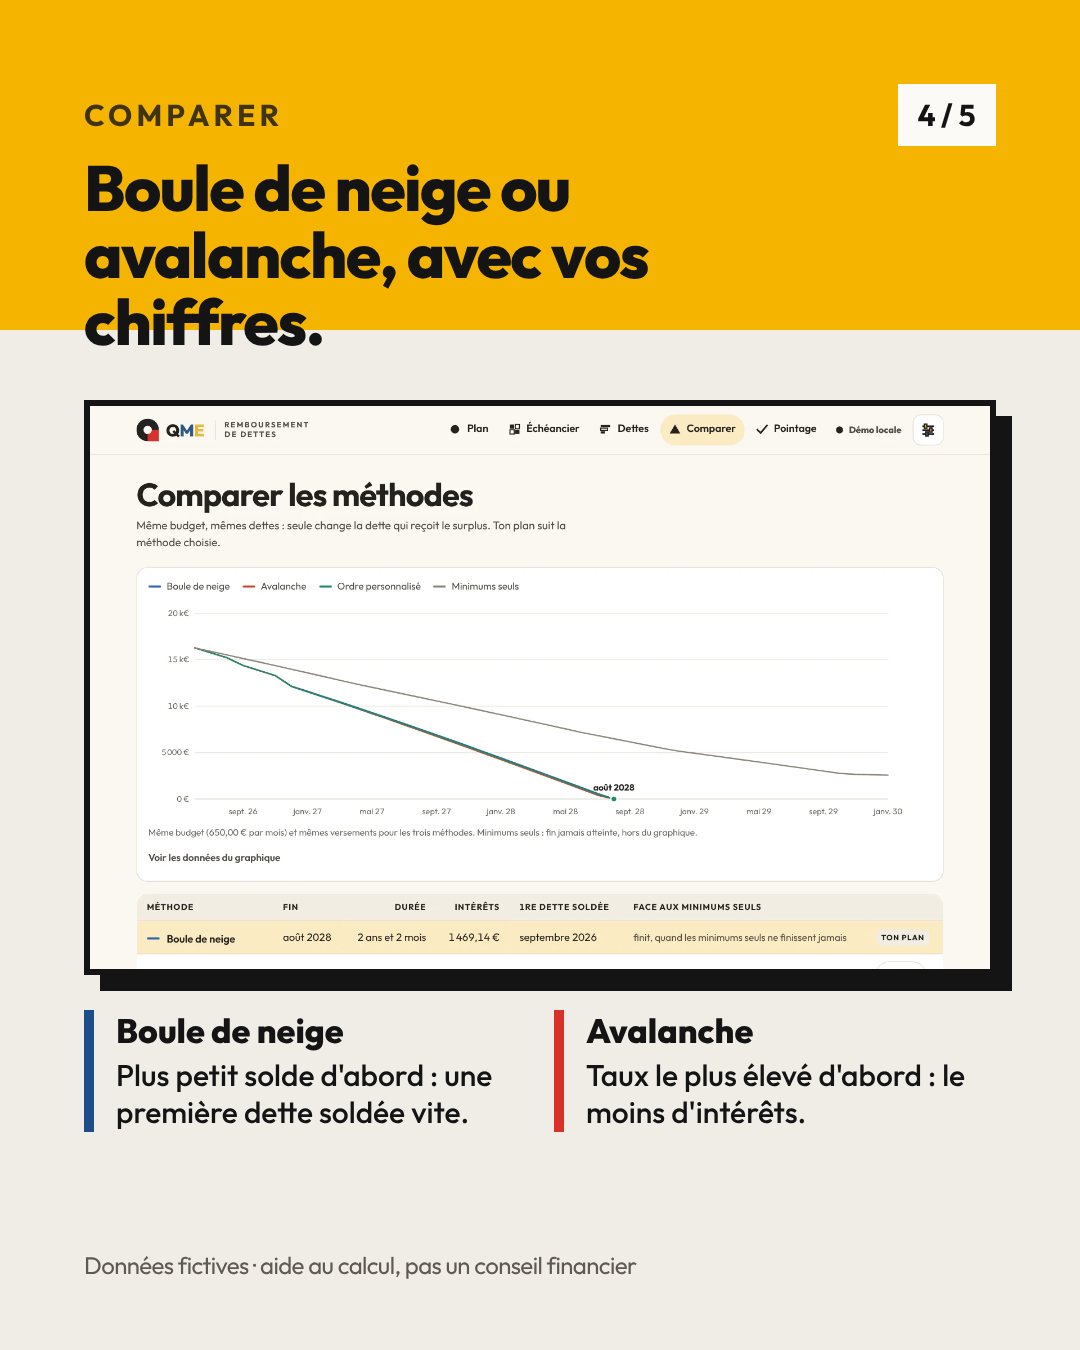
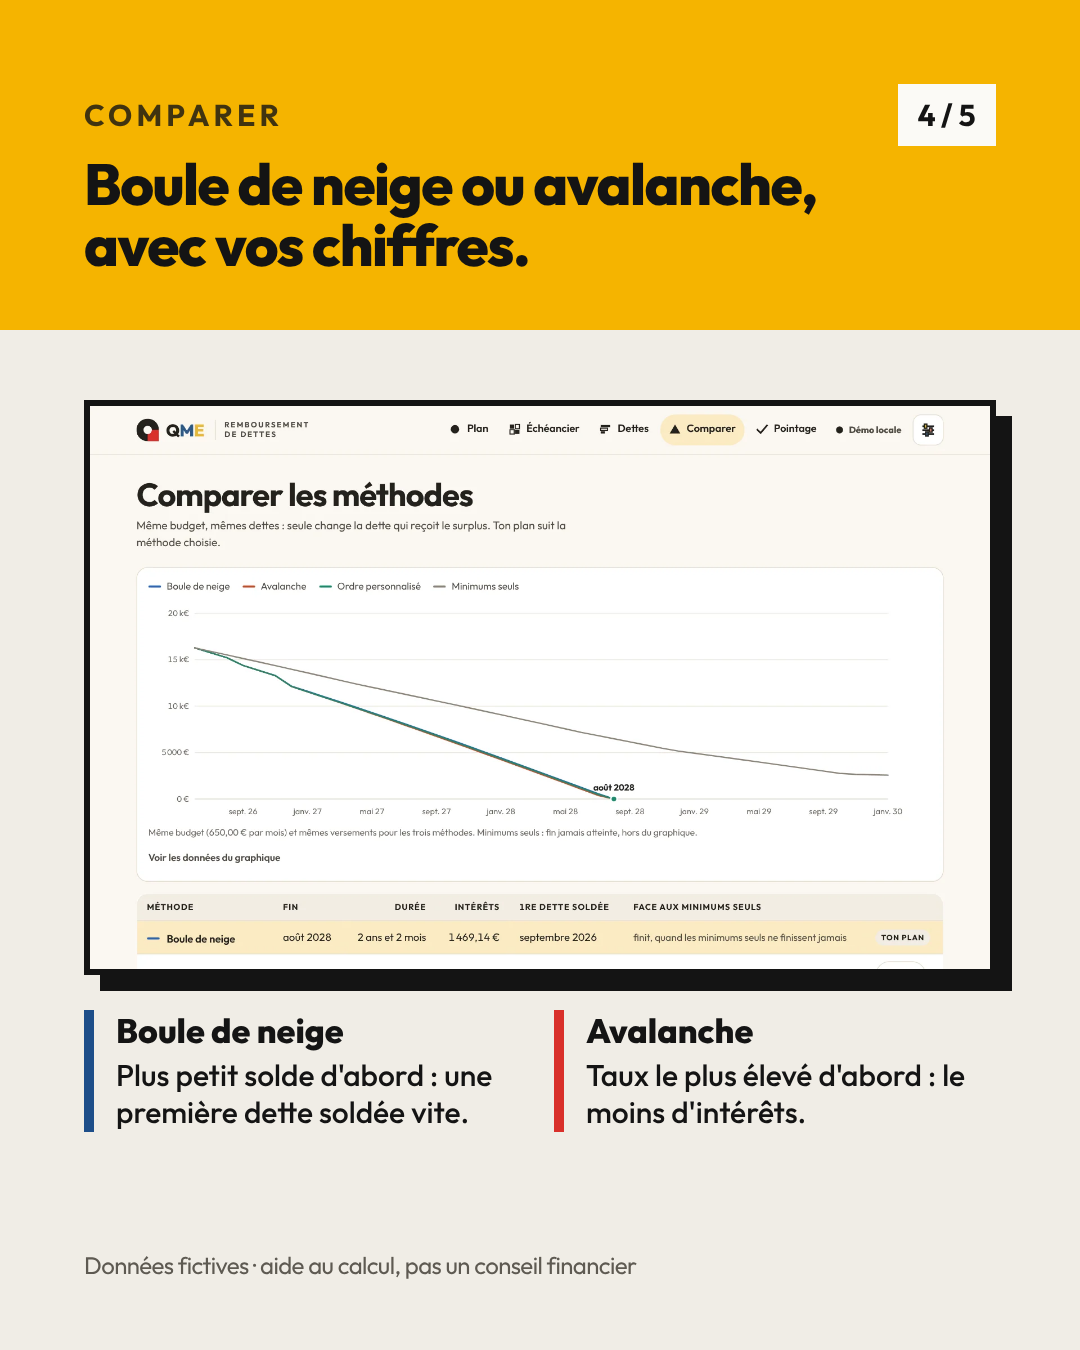
T12 Remboursement de dettes : application, tests, page catalogue, captures et communication
Claude-Session: https://claude.ai/code/session_0183EW55jPQAzu4zqaZwbUf6

Changed region(s): [[0.0611, 0.1244, 0.7639, 0.28]]

diff --git a/docs/templates/communication/dettes/instagram/carrousel.html b/docs/templates/communication/dettes/instagram/carrousel.html
@@ -27,7 +27,7 @@ h1,h2,p{letter-spacing:-.025em}
 
 /* Vue 1 : couverture-question (car-1) */
 .c1 .titre{position:absolute;left:84px;top:200px;right:84px}
-.c1 h1{font-size:118px;font-weight:800;line-height:.98}
+.c1 h1{font-size:100px;font-weight:800;line-height:.98}
 .c1 h1 mark{background:var(--jaune);color:inherit;padding:0 10px}
 .c1 .sous{font-size:38px;line-height:1.3;color:var(--texte-2);margin-top:44px;max-width:800px}
 .c1 .fa{position:absolute;right:0;bottom:0;width:430px;height:430px;background:var(--rouge);border-top-left-radius:430px}
@@ -61,6 +61,7 @@ h1,h2,p{letter-spacing:-.025em}
 .c2 .note{position:absolute;left:84px;bottom:70px;font-size:24px;color:var(--discret)}
 .c2.jaune .bandeau{background:var(--jaune);color:var(--encre)}
 .c2.jaune .bandeau .sourcil{color:var(--encre);opacity:.8}
+.c2.jaune .bandeau h2{font-size:58px;max-width:820px}
 .c2 .ecran{position:absolute;left:84px;right:84px;top:400px;border:6px solid var(--encre);box-shadow:16px 16px 0 var(--encre);background:var(--surface)}
 .c2 .ecran img{display:block;width:100%}
 .c2 .bas{position:absolute;left:84px;right:84px;top:1010px;display:grid;grid-template-columns:1fr 1fr;gap:28px}

diff --git a/docs/templates/communication/dettes/prospects.md b/docs/templates/communication/dettes/prospects.md
@@ -1,0 +1,69 @@
+# Prospects · Remboursement de dettes
+
+Segments et organisations à démarcher. **Aucune donnée personnelle collectée** : on cible des fonctions et
+des structures, on écrit à des adresses professionnelles publiques ou via LinkedIn. Les organismes cités
+existent (vérifiés le 13/11/2026) ; leur intérêt pour un partenariat est **à vérifier** au premier contact.
+
+Le produit se vend à des particuliers (B2C). LinkedIn et l'e-mail professionnel servent surtout à toucher
+les **prescripteurs** (ceux qui accompagnent des foyers sur leur budget) et les **partenaires** (structures
+qui pourraient l'offrir). Gumroad propose un **programme d'affiliation** pour les prescripteurs et les
+créateurs de contenu.
+
+**Prudence (règle de ce produit)** : une partie du public est en difficulté financière.
+- Le template est une **aide au calcul**, ni un conseil, ni un accompagnement, ni une solution au
+  surendettement : ne jamais le présenter autrement, ne jamais promettre de « sortir des dettes ».
+- Ne jamais cibler des personnes identifiées comme endettées (pas de publicité ciblée sur ce critère, pas
+  de démarchage de particuliers).
+- Auprès des structures d'accompagnement : proposer des **accès offerts** (codes `DTT` générés en lot),
+  pas une vente à leurs accompagnés.
+- Toujours rappeler les dispositifs publics gratuits : point conseil budget, commission de surendettement
+  (Banque de France).
+
+## Priorité 1 · Prescripteurs
+
+| Segment | Pourquoi il a le problème | Où le trouver | Qui contacter | Message d'approche (3 lignes) | Canal |
+|---|---|---|---|---|---|
+| Créateurs de contenu « finances personnelles », « budget », « sortir du découvert » (vidéo, blogs, réseaux) | Leur audience demande « boule de neige ou avalanche ? » ; un outil qui calcule avec les vrais chiffres illustre bien la réponse | Recherches sur les plateformes (« méthode boule de neige dettes », « rembourser ses crédits ») | Adresse professionnelle publique de la chaîne ou du blog | « J'ai conçu un plan de remboursement qui compare boule de neige et avalanche avec les chiffres de chacun, sans connexion bancaire. Démo : …/templates/dettes/?demo. Je vous propose un accès offert et un lien d'affiliation. » | E-mail professionnel public, affiliation Gumroad |
+| Conseillères et conseillers en économie sociale et familiale (CESF), en libéral ou en structure | Leur métier inclut l'accompagnement budgétaire et la priorisation des dettes | LinkedIn, réseaux professionnels du travail social | La fonction (CESF libéral, responsable de service) | « Un support visuel pour montrer à une famille dans quel ordre rembourser et quand elle en aura fini, avec le pointage des paiements. Je peux offrir des accès à vos accompagnés. » | LinkedIn ; **codes offerts, pas de vente** |
+| Coachs budgétaires indépendants | Accompagnent la mise en place d'un plan de désendettement, cherchent un outil simple à recommander | LinkedIn, annuaires de coachs | Le coach | « Un outil à recommander à vos clients : échéancier mois par mois, date de fin, écart au plan chaque mois. Accès offert pour le tester. » | LinkedIn, affiliation |
+| Conseillers en gestion de patrimoine indépendants | Avant d'épargner, certains clients doivent solder des crédits coûteux ; l'avalanche le montre en chiffres | LinkedIn (« conseiller en gestion de patrimoine indépendant ») | Le conseiller | « Vos clients ont-ils un crédit renouvelable à solder avant d'épargner ? Ce plan leur montre la date de fin et les intérêts évités. Démo : … » | LinkedIn, affiliation |
+
+## Priorité 2 · Partenaires (structures qui pourraient l'offrir)
+
+| Segment | Exemples (existence vérifiée, intérêt à vérifier) | Pourquoi | Qui contacter | Approche |
+|---|---|---|---|---|
+| Associations d'éducation budgétaire | Finances & Pédagogie ; Institut pour l'éducation financière du public (La finance pour tous) | Animent des ateliers budget et crédit pour le grand public | Responsable pédagogique ou partenariats | Accès offerts aux participants d'ateliers ; pas de vente |
+| Associations d'accompagnement budgétaire et de prévention du surendettement | CRESUS ; UDAF (une par département) ; structures labellisées point conseil budget | Accompagnent des foyers endettés ; l'outil peut servir entre deux rendez-vous | Direction ou responsable du service budget | Codes offerts, usage à valider avec eux ; **ne pas présenter l'outil comme une alternative à leur accompagnement** |
+| Comités sociaux et économiques (CSE) | CSE d'entreprises de taille moyenne | Proposent des avantages aux salariés ; l'éducation financière en fait parfois partie | Élu en charge des activités sociales | Licence groupée (codes `DTT` en lot) à tarif dégressif, à chiffrer |
+| Associations étudiantes et BDE | BDE d'universités et d'écoles | Premiers prêts étudiants, découverts, paiements fractionnés | Bureau de l'association | Code de réduction Gumroad pour les membres |
+| Banques, organismes de crédit, rachat de crédits : **à exclure** | — | Conflit d'intérêts évident avec l'objet du template ; risque d'image | — | Ne pas démarcher |
+
+## Priorité 3 · Acheteurs directs (sans ciblage individuel)
+
+| Segment | Moment | Canal |
+|---|---|---|
+| Jeunes actifs avec un prêt auto, un prêt étudiant et un découvert | Janvier (résolutions), rentrée de septembre | Publication LinkedIn, créateurs de contenu |
+| Couples qui veulent assainir leurs finances avant un projet (logement, enfant) | Toute l'année | Bouche-à-oreille, LinkedIn, renvoi depuis le template Budget du foyer |
+| Acheteurs du Budget du foyer et du Budget commun (templates QME) | Après l'achat | Mention dans la page catalogue et la communication (pas d'e-mail automatique) |
+
+## Calendrier conseillé
+
+- **Novembre-décembre** : publication LinkedIn et Instagram, premiers contacts créateurs et coachs.
+- **Janvier** : pic « bonnes résolutions finances » : relance des créateurs, code de lancement éventuel.
+- **Mars-avril** : partenaires (associations, CSE) pour des ateliers au printemps.
+- **Septembre** : rentrée, étudiants et jeunes actifs.
+
+## Message d'approche type (prescripteur, 3 lignes)
+
+> Bonjour, j'ai conçu un plan de remboursement de dettes en ligne : à partir des dettes et du budget
+> mensuel, il calcule la date de fin, compare boule de neige et avalanche, et suit les paiements réels.
+> C'est une aide au calcul, sans connexion bancaire ; je vous propose un accès gratuit pour le tester :
+> https://qm-engineering.fr/templates/dettes/?demo
+
+## À vérifier
+
+- Intérêt et conditions de chaque structure citée (aucun contact pris).
+- Règles déontologiques des CESF et des associations sur la recommandation d'un outil payant (d'où
+  l'accès offert).
+- Liste des points conseil budget : annuaire public du ministère chargé des solidarités (dispositif
+  annoncé en refonte, labels 2027-2029).

diff --git a/docs/templates/communication/dettes/instagram.md b/docs/templates/communication/dettes/instagram.md
@@ -1,0 +1,63 @@
+# Publication Instagram · Remboursement de dettes
+
+Carrousel 5 vues (1080 × 1350) au gabarit des posts template (`car-1`, `car-2`, `car-3` de
+`../instagram/gabarits.html`), vue 5 avec renvoi au sur mesure. Kit : `../instagram/README.md`.
+À planifier le lendemain de la publication LinkedIn du template, à 18:30 (ligne du planning Instagram à
+créer ; aucune ligne ni aucun fichier Drive créés à ce stade).
+
+- Source des visuels : `instagram/carrousel.html` → `node docs/templates/communication/instagram/rendre.mjs ../dettes/instagram/carrousel.html`
+  (sortie dans `../instagram/png/`, puis déplacée ici) → `instagram/dettes-1.png` … `dettes-5.png`.
+- Captures réelles de la démo : `assets/templates-dettes-tel.webp`, `assets/templates-dettes-comparer.webp`
+  (données fictives, mention sur chaque vue qui en montre une).
+- Prix affiché sur la vue 5 : 10 € (prix prévu ; à vérifier sur Gumroad avant publication).
+- Faits repris de `linkedin.md` et de l'application uniquement ; aucune promesse chiffrée.
+
+## Vues
+
+1. Couverture (papier) : « Quand est-ce que j'en aurai fini ? » / Plusieurs crédits, plusieurs mensualités. Et aucune date de fin écrite nulle part.
+2. Problème (fond encre) : Chaque dette a sa mensualité. Aucune ne dit quoi rembourser en premier. Quatre mensualités fictives. « Plus petit solde d'abord, ou taux le plus élevé d'abord ? »
+3. Ce que fait le template (bandeau bleu, capture téléphone, 3 points) : Une date de fin, calculée avec votre budget.
+4. Vue clé (bandeau jaune, capture de la comparaison) : Boule de neige ou avalanche, avec vos chiffres.
+5. Appel à l'action (fond jaune), 10 €, renvoi au sur mesure.
+
+## Accroches (première ligne)
+
+- **A (retenue)** : Quand est-ce que j'en aurai fini avec mes crédits ?
+- **B** : Boule de neige ou avalanche : laquelle pour vos dettes ?
+
+## Légende (notes)
+
+Vouvoiement, 5 hashtags (jeu « Maison » du kit, adapté : `#Budget` et `#BudgetFamilial` repris, plus
+trois du domaine). Aucun lien dans la légende : « lien en bio ».
+
+## Textes alternatifs
+
+1. Titre « Quand est-ce que j'en aurai fini ? » Plusieurs crédits, plusieurs mensualités, et aucune date de fin écrite nulle part. Formes géométriques rouge et jaune.
+2. Fond noir : Chaque dette a sa mensualité, aucune ne dit quoi rembourser en premier. Liste fictive : prêt voiture 210 €, crédit cuisine 115 €, réserve d'argent 60 €, découvert 40 €. Question : plus petit solde d'abord, ou taux le plus élevé d'abord ?
+3. Le template Remboursement de dettes sur téléphone : « Libre de dettes en août 2028 », choix de la méthode et paiements du mois. Trois points : vos dettes et votre budget, le report mois par mois de la mensualité d'une dette soldée, le pointage des paiements réels. Capture, données fictives.
+4. Comparaison des méthodes sur ordinateur : courbes du solde restant pour la boule de neige, l'avalanche, l'ordre personnalisé et les minimums seuls, et tableau des dates de fin et des intérêts. Boule de neige : plus petit solde d'abord ; avalanche : taux le plus élevé d'abord. Capture, données fictives ; aide au calcul, pas un conseil financier.
+5. Fond jaune : essayez-le avec un foyer fictif, démo libre, sans connexion à la banque, achat unique à 10 €. Besoin de plus ? Version sur mesure. Lien en bio.
+
+## Story d'annonce
+
+Abandonnée pour l'instant (voir le kit, § Stories) ; si une solution existe : gabarit `story`, capture
+téléphone, autocollant lien vers https://qm-engineering.fr/templates/dettes/?demo.
+
+## Légende retenue
+
+Quand est-ce que j'en aurai fini avec mes crédits ?
+
+Un prêt voiture, un crédit conso, une réserve d'argent, un découvert : chaque dette a sa mensualité, mais aucune ne dit quoi rembourser en premier, ni jusqu'à quand.
+
+Le template Remboursement de dettes fait le calcul avec vos chiffres :
+▪ vos dettes et ce que vous pouvez y consacrer chaque mois donnent une date de fin ;
+▪ boule de neige, avalanche ou votre propre ordre, comparés côte à côte ;
+▪ chaque mois, vous pointez ce que vous avez vraiment payé et voyez l'écart au plan.
+
+Sans connexion à la banque, calcul expliqué, achat unique à 10 €. Une aide au calcul, pas un conseil financier.
+
+Besoin de plus ? Vos règles, vos utilisateurs, vos outils : je construis la version sur mesure.
+
+Démo libre et contact : lien en bio.
+
+#Budget #BudgetFamilial #FinancesPersonnelles #Dettes #Organisation
